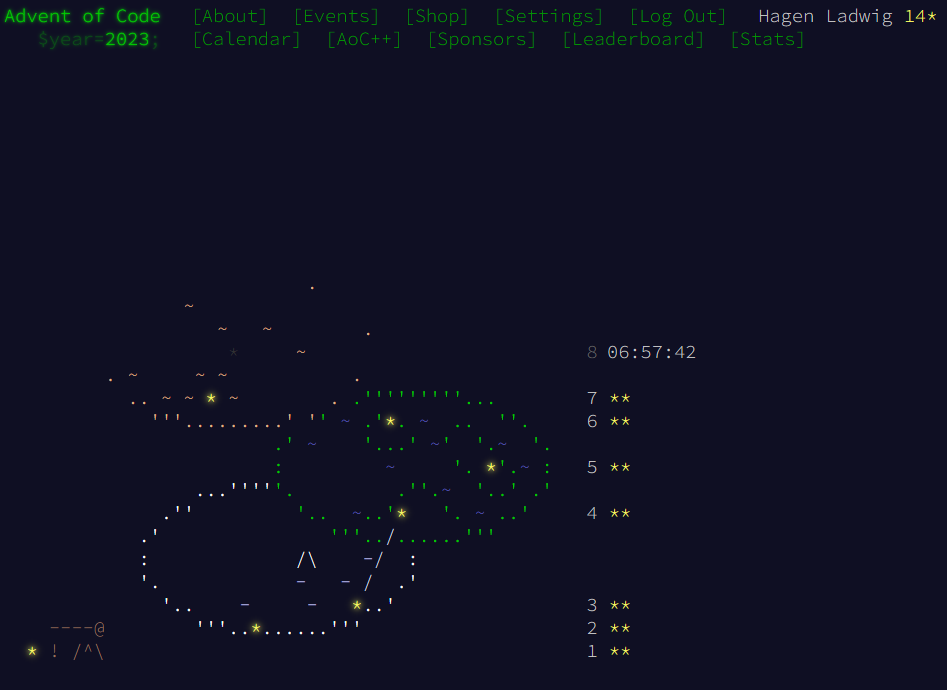
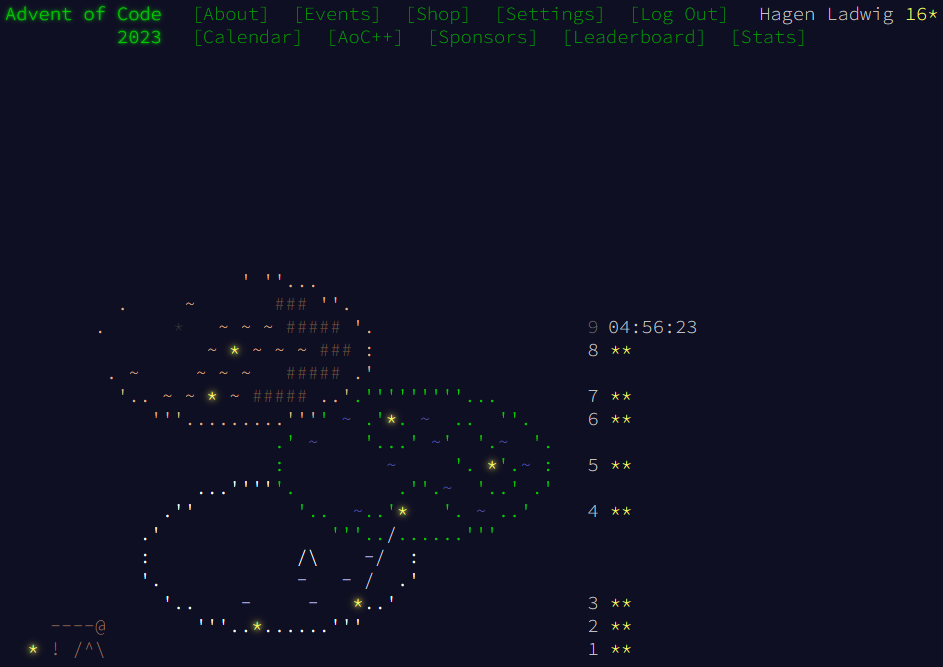
Day8 Part2, brute force didn't cut it, fortunately no difference in the second loop so lcm was sufficient

diff --git a/src/main.rs b/src/main.rs
@@ -1,7 +1,4 @@
-use std::{
-    cmp::Ordering,
-    collections::{hash_map, HashSet},
-};
+use std::{cmp::Ordering, collections::HashSet};
 
 #[test]
 fn day1tests() {
@@ -959,7 +956,7 @@ fn day8tests() {
 
     assert_eq!(day8_1(&data1), 2);
     assert_eq!(day8_1(&data2), 6);
-    //assert_eq!(day8_2(&data3), 6);
+    assert_eq!(day8_2(&data3), 6);
 }
 
 #[derive(Debug)]
@@ -1011,7 +1008,79 @@ fn day8_1(input: &str) -> i32 {
     stepcount
 }
 
-//fn day8_2(input: &str) -> i32 {}
+fn day8_2(input: &str) -> i64 {
+    let mut lines = input.lines();
+    let movements = lines.next().unwrap();
+    lines.next();
+    //let nodes: Vec<Day8node> = lines.map(Day8node::new).collect();
+    let network: std::collections::HashMap<&str, Day8node> = lines
+        .map(|x| {
+            let newnode = Day8node::new(x);
+            let nodename = x.split(" = ").next().unwrap();
+            (nodename, newnode)
+        })
+        .collect();
+    let current_node_names: Vec<&str> = network
+        .iter()
+        .filter(|x| x.0.ends_with("A"))
+        .map(|x| x.1.name.as_str())
+        .collect();
+    let mut step_pairs: Vec<(i64, i64)> = vec![];
+    for mut current_node_name in current_node_names {
+        let mut stepcount = 0;
+        let mut steps_first = 0;
+        for step in movements.chars().cycle() {
+            let current_node = network.get(current_node_name).unwrap();
+            if step == 'L' {
+                current_node_name = current_node.left.as_str();
+            }
+            if step == 'R' {
+                current_node_name = current_node.right.as_str();
+            }
+            stepcount += 1;
+            if current_node_name.ends_with('Z') {
+                if steps_first == 0 {
+                    steps_first = stepcount;
+                    stepcount = 0;
+                } else {
+                    step_pairs.push((steps_first, stepcount));
+                    break;
+                }
+            }
+        }
+    }
+    /*for step in movements.chars().cycle() {
+            let mut current_nodes: Vec<&Day8node> = vec![];
+            for node in current_node_names {
+                current_nodes.push(network.get(node).unwrap());
+            }
+            current_node_names = current_nodes
+                .iter()
+                .map(|x| {
+                    if step == 'L' {
+                        x.left.as_str()
+                    } else {
+                        x.right.as_str()
+                    }
+                })
+                .collect();
+
+            stepcount += 1;
+            if current_node_names.iter().all(|x| x.ends_with("Z")) {
+                break;
+            }
+    }*/
+    if step_pairs.iter().any(|x| x.0 != x.1) {
+        println!(
+            "Problem, first cycle is different from second {:?}",
+            step_pairs
+        );
+        return 0;
+    }
+    step_pairs
+        .iter()
+        .fold(1, |acc: i64, num: &(i64, i64)| num_integer::lcm(acc, num.0))
+}
 
 fn day8() {
     let data =
@@ -1019,7 +1088,7 @@ fn day8() {
             .expect("Data for day8-Problem not found");
 
     println!("{}", day8_1(&data));
-    //println!("{}", day8_2(&data));
+    println!("{}", day8_2(&data));
 }
 
 fn main() {
